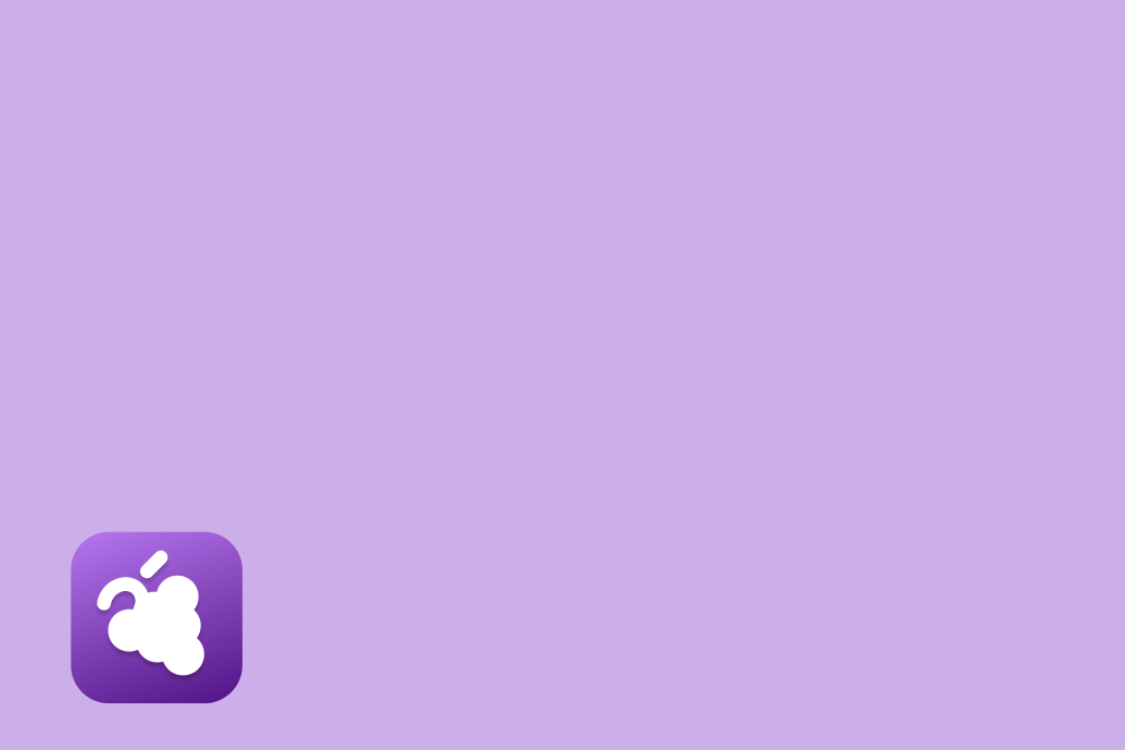
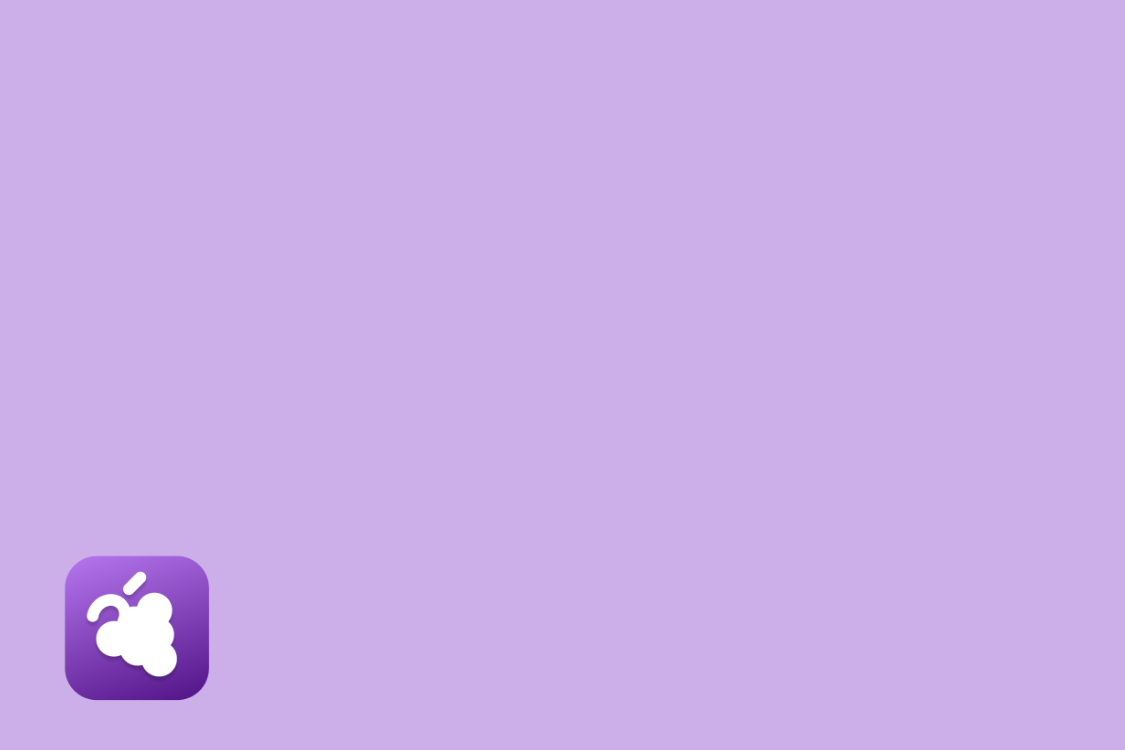
img

Changed region(s): [[0.0311, 0.7053, 0.2178, 0.9507]]

diff --git a/style.css b/style.css
@@ -109,6 +109,9 @@ body, html {
     object-fit: cover;
     margin-top: -20px;
     margin-left: 50px;
+    -webkit-appearance: none;
+    -webkit-box-shadow: 2px 2px 12px rgba(11, 11, 11, 0.2);
+    box-shadow: 2px 2px 12px rgba(11, 11, 11, 0.2);
 }
 
 .intro-text {
@@ -429,6 +432,9 @@ body, html {
     .scroll-button {
         pointer-events: none;
         -webkit-touch-callout: none;
+    }
+    .prev:hover, .next:hover {
+        background-color: transparent;
     }
 }
 
